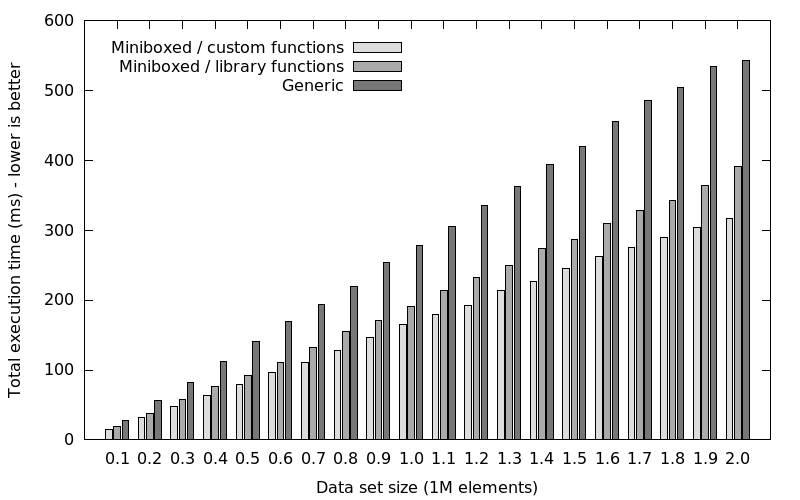
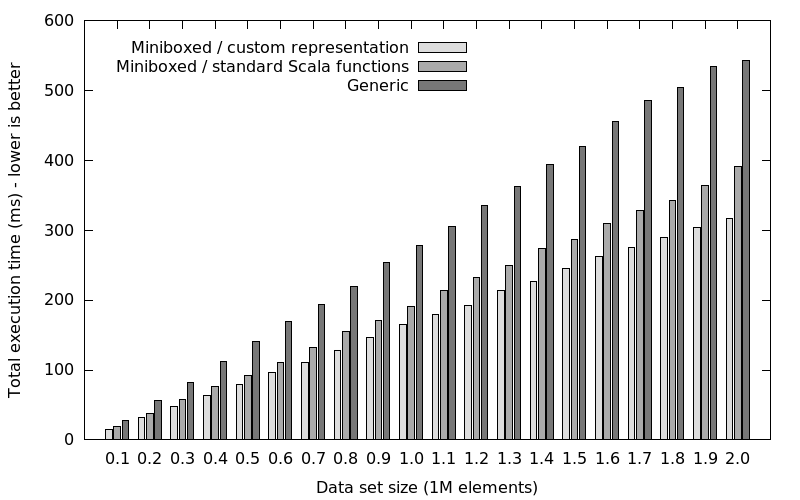
Twix

Changed region(s): [[0.125, 0.06, 0.5938, 0.18]]

diff --git a/_layouts/default.html b/_layouts/default.html
@@ -26,7 +26,7 @@
   <body>
     <div id='outer'>
       <p class="paper" align="center">
-        <a href="https://twitter.com/VladUreche/status/484030343973199873">@VladUreche: "Hey Bay Area: Interested in a session on @miniboxing specialization? I'll be around 1-3 of August"</a>
+        <a href="/example_functions.html"><b>Miniboxing &#x2764; Higher-order Functions = Efficient execution out of the box</b> (pun intended!)</a>
       </p>
       <br/>
       <div id='menu'>

diff --git a/example_functions.md b/example_functions.md
@@ -21,19 +21,19 @@ This page describes how the miniboxing plugin transforms higher-order functions 
    * seamless integration with the standard Scala library
 
  * Disadvantages:
-   * a small but pervasive overhead of 5%-25% when invoking functions:
+   * a small but pervasive overhead of 10%-20% when invoking functions:
 
 <center><a href="#benchmarks"><img width="40%" src="/graphs/linkedlist.mbfunction/linkedlist.mbfunction.png"/></a></center>
 
 ## Motivation
 
-The miniboxing plugin aims at maintaining the high-level nature of the Scala programming language while eliminating the performance price of abstraction when it comes to generics. Since Scala marries the functional programming style and object-orientation, in Scala functions are objects and objects can be functions. Furthermore, expressing the types of arguments and the return type is done using generics.
+The miniboxing plugin aims at maintaining the high-level nature of the Scala programming language while eliminating the cost of abstraction in terms of running time for generics. Since Scala marries the functional programming style and object-orientation, in the Scala world, functions are objects and objects can be functions. Expressing the types of a function's arguments and its return type is done using generics, so this leads to a natural question:
 
-This leads to a natural question: **Can higher-order functions be optimized by miniboxing too?**
+**Can higher-order functions be optimized by miniboxing too?**
 
 The answer so far has been NO, since functions have a fixed representation implemented in the Scala standard library, and, for reasons  <a href="" target="_blank">described here</a> it is not possible for miniboxing to directly optimize functions.
 
-Now, version 0.4 of the miniboxing plugin brings the possibility to optimize functions, and the results are promissing!
+Now, version `0.4` of the miniboxing plugin automatically optimizes functions, and the results are really cool!
 
 
 ## Mechanism
@@ -46,7 +46,17 @@ Previous miniboxing plugin versions required [defining your own function represe
  }
 {% endhighlight %}
 
-Now, this is done automatically for you by the miniboxing plugin. Indeed, the miniboxing plugin introduces three tweaked versions of the function representation for 0, 1 and 2 arguments:
+With a custom function representation, the miniboxing plugin was able to transform both the function representation and the caller code to completely avoid boxing value types. Yet, this forced programmers to perform desugaring by hand. For example, instead of writing `(x: Int) => x + 1`, they would have to write:
+
+{% highlight scala %}
+ new MyFunc1[Int, Int] {
+   def apply(t: Int): Int = x + 1
+ }
+{% endhighlight %}
+
+What a waste! So why exactly was miniboxing unable to improve standard Scala functions? Because standard functions are compiled without the miniboxing compiler plugin -- even worse, they're compiled with the incompatible specialization transformation (<a href="https://github.com/miniboxing/miniboxing-plugin/issues/108" target="_blank">see this bug for reference</a>).
+
+Now, since version `0.4`, the miniboxing plugin, standard Scala functions can be efficiently used by miniboxed code. To get there, the miniboxing plugin now introduces three tweaked versions of the function representation for 0, 1 and 2 arguments:
 
 {% highlight scala %}
 package miniboxing.runtime
@@ -115,8 +125,8 @@ when the miniboxing plugin is active, this is:
       ...
       final def apply(x: Int): Int = x
     }
-    MiniboxedFunctionBridge.this.function1_opt_bridge_long_long[Int, Int](
-        5, 5, (new <$anon: Int => Int>(): Int => Int))
+    MiniboxedFunctionBridge.this.function1_opt_bridge_long_long[Int, Int]( // <== added wrapper
+        5, 5, (new <$anon: Int => Int>(): Int => Int))                     // around the function
   }
 {% endhighlight %}
 
@@ -162,10 +172,10 @@ slowing down execution.
 
 Of course, this also comes with a couple of drawbacks:
 
- * an additional call from miniboxing into specialized code: instead of the caller calling `apply$mcII$sp` directly, it has to go through `apply_JJ`
+ * an additional call from miniboxing into specialized code: instead of the caller calling `apply$mcII$sp` directly, it has to go through `apply_JJ`;
  * since `FunctionX` classes are not specialized for all primitives and are not partially specialized
-(argument is primitive while return is generic), not all `MiniboxedFunctionX`-es have corresponding optimized
-`apply$mcXY$sp` methods to call
+(either both the argument and return are primitives or both are generic, all or nothing),
+not all `MiniboxedFunctionX`-es have corresponding optimized `apply$mcXY$sp` methods to call;
  * this creates an additional heap object for each function -- while this is not a huge issue, it does become
 important when dealing with many closures, as their memory footprint increases.
 
@@ -202,20 +212,21 @@ We performed the benchmarks on the *least squares method* implemented using a [m
 
 In the graph, the following scenarios are shown:
 
- * `Miniboxed / custom functions`
+ * `Miniboxed / custom representation`
     * custom function representation instead of Scala's `FunctionX`
     * requires manual desugaring for all higher-order functions
     * described in [the linked list example](/example_linkedlist.html#functions)
     * is typically **45% faster** compared to `generic` for the linked list example
- * `Miniboxed / library functions`
-    * programmer uses the standard `FunctionX` representation
-    * thanks to the improved translation, invoking functions does not require boxing
+ * `Miniboxed / standard Scala functions`
+    * programmer uses the standard `FunctionX` representation or the `X => Y` synthetic sugar
+    * no need for manual desugaring, `(x: Int) => x + 1` is automatically desugared by the compiler
+    * thanks to the improved translation, invoking functions does not require boxing (*in most cases)
     * introduces a **15% overhead** compared to the `custom functions` (for the linked list example)
     * is typically **30% faster** compared to `generic` (for the linked list example)
  * `Generic`
     * the generic version of the benchmark which we all know and hate
 
-Raw data:
+The numbers (<a href="/graphs/linkedlist.mbfunction/data.mbfunction.1.raw" target="_blank">raw data avaialable here</a>):
 
 Collection size | Miniboxed / custom functions (ms) |  Miniboxed / library functions (ms) |  Generic (ms)
 ----------------|-----------------------------------|-------------------------------------|---------------

diff --git a/example_linkedlist.md b/example_linkedlist.md
@@ -243,6 +243,8 @@ The benchmark we ran is fitting a linear curve to a given set of points using th
 
 We ran this code with two versions of the library: one with the plugin activated and one with generic classes. The numbers were obtained on an i7 server machine with 32GB of RAM, and we made sure no garbage collections occured (`-Xmx16g`, `-Xms16g`):
 
+<center><img width="90%" src="/graphs/linkedlist/linkedlist2.png"/></center>
+
 Collection size | Miniboxed (ms) |   Generic (ms)
 ----------------|----------------|---------------
         1000000 |            160 |            279
@@ -267,16 +269,13 @@ Collection size | Miniboxed (ms) |   Generic (ms)
         2900000 |            471 |            804
         3000000 |            487 |            831
 
-<br/>
-In a graphical format:
-<br/>
-<br/>
-
-<center><img width="90%" src="/graphs/linkedlist/linkedlist2.png"/></center>
 
 This shows miniboxed linked lists are 1.5x to 2x faster than generic collections, despite the fact that linked lists are not contiguous, thus reducing the benefits of miniboxing. We have also tested specialization, but it ran out of memory and we were unable to get any garbage collection-free runs above 1500000 elements (we suspect this is due to bug <a href="https://issues.scala-lang.org/browse/SI-3585" target="_blank">SI-3585 Specialized class should not have duplicate fields</a>, but haven't examined in depth)
 
 We also wanted to test how miniboxing copes with garbage collection cycles compared to the generic library. To do so, we limited the heap size to 2G (`-Xmx2g`, `-Xms2g`, `-XX:+UseParallelGC`):
+
+<center><img width="90%" src="/graphs/linkedlist/linkedlist3.png"/></center>
+
 
 Collection size | Miniboxed (ms) |   Generic (ms)
 ----------------|----------------|---------------
@@ -286,13 +285,6 @@ Collection size | Miniboxed (ms) |   Generic (ms)
         4000000 |           2442 |           8980
         5000000 |           3804 |          14502
         6000000 |           7708 |          21267
-
-<br/>
-In a graphical format:
-<br/>
-<br/>
-
-<center><img width="90%" src="/graphs/linkedlist/linkedlist3.png"/></center>
 
 To summarize, on linked lists, we can expect **speedups between 1.5x and 4x**, despite the non-contiguous nature of the
 linked list. Therefore we expect even better speedups for vectors and hashmaps, which use underlying arrays for values.
